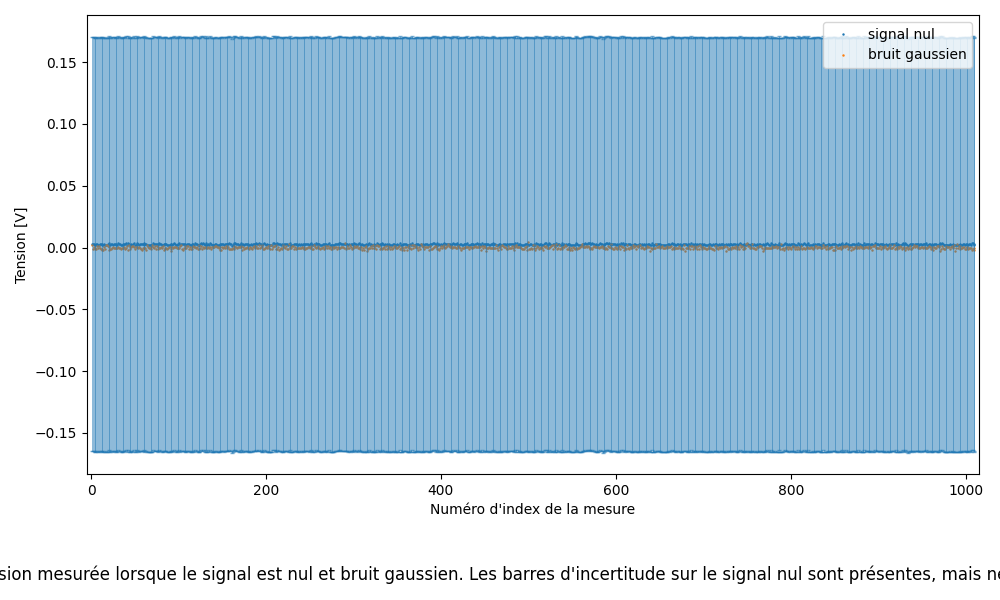
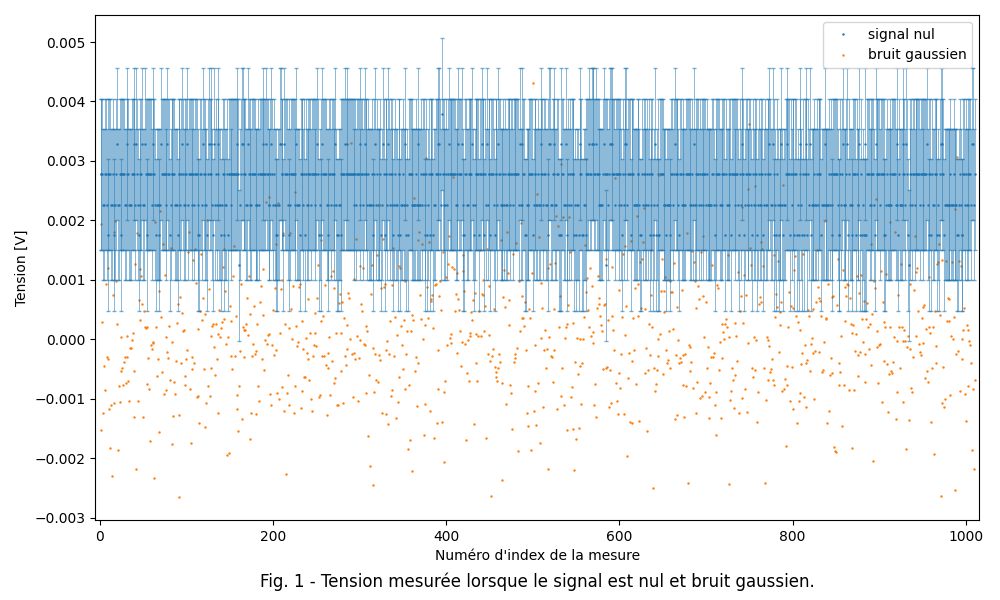
Retour à méthode min/max pour les incertitudes

diff --git a/Labo1/Programmation/Comparaison_bruit.py b/Labo1/Programmation/Comparaison_bruit.py
@@ -52,7 +52,7 @@ def read(file_name):
 
 def incertitude(array, indice):
     col = array[:, indice]
-    return abs(np.std(col)/np.mean(col))
+    return 0.5 * (np.max(col) - np.min(col))
 
 
 def graphiques_scatter(array):
@@ -76,9 +76,8 @@ def graphiques_scatter(array):
     plt.ylabel("Tension [V]")
 
     plt.title(
-        f"Fig. 1 - Tension mesurée lorsque le signal est nul et bruit gaussien."
-        " Les barres d'incertitude sur le signal nul sont présentes, mais ne sont pas visibles.",
-        y=-0.25
+        f"Fig. 1 - Tension mesurée lorsque le signal est nul et bruit gaussien.",
+        y=-0.15
     )
 
     plt.tight_layout()

diff --git a/Labo1/Programmation/Graphique_tension_constante.py b/Labo1/Programmation/Graphique_tension_constante.py
@@ -59,7 +59,7 @@ def snr(file_name, indice):
 
 def incertitude(array, indice):
     col = array[:, indice]
-    return abs(np.std(col)/np.mean(col))
+    return 0.5 * (np.max(col) - np.min(col))
 
 def graphiques_scatter(array):
     fig = plt.gcf()

diff --git a/Labo1/Programmation/Graphique_tension_non_constante.py b/Labo1/Programmation/Graphique_tension_non_constante.py
@@ -69,7 +69,6 @@ def read(file_name):
     return arr[:, :col]
 
 
-
 def moyenne(file_name):
     return np.average(read(file_name))
 
